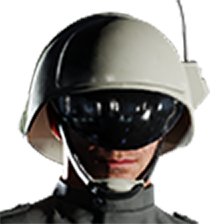
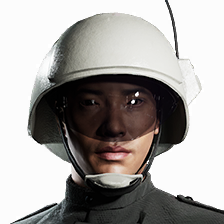
fixed the appearances page

diff --git a/docs/details/appearances.js b/docs/details/appearances.js
@@ -123,7 +123,6 @@ fetch("../../lists/appearances.json").then(response => response.json()).then(dat
         'villains-darthvader',
         'villains-dengar',
         'villains-emperorpalpatine',
-        'villains-generalgrievous',
         'villains-grandadmiralthrawn',
         'villains-gideonhask',
         'villains-greedo',

diff --git a/docs/community-updates/v10.md b/docs/community-updates/v10.md
@@ -1219,6 +1219,7 @@ ___
     - Honor Guard
         - BACTA GRENADE
             - Explodes on impact.
+        - Updated portrait.
     - Imperial Jumptrooper
         - Restored Legacy appearance.
         - Star Tours appearance boasts the classic Imperial jetpack from 2015.
@@ -1275,10 +1276,11 @@ ___
             - Replaced crosshair.
     - Riot Control Trooper
         - Z6 RIOT CONTROL BATON
-          - Cannot attack while mid-air.
-          - While not attacking, the baton will be retracted and the lightning disabled.
-          - Added activation, looping, and deactivation sounds for the attack sequence.
-          - Updated impact and swing sounds.
+            - Defeating enemies will briefly yield health regeneration, which will be canceled if damage is taken.
+            - Cannot attack while mid-air.
+            - While not attacking, the baton will be retracted and the lightning disabled.
+            - Added activation, looping, and deactivation sounds for the attack sequence.
+            - Updated impact and swing sounds.
         - Evading performs a dodge roll instead of a dash.
         - Autoplayers are significantly more aggressive with the baton while in melee range.
         - Added Executioner appearance.
@@ -1302,6 +1304,7 @@ ___
         - Updated appearance assets.
         - Added Light Armor and Shadow Guard appearances.
         - Default appearance named Ceremonial Robes.
+        - Updated portrait.
     - Shock Trooper
         - BACTA GRENADE
             - Explodes on impact.
@@ -1445,7 +1448,7 @@ ___
     - Captain Rex
         - GENERATION ONE revamped
             - Generation one armor holds up, boosting Captain Rex's resistance to incoming damage. As his health decreases, this effect is strengthened, ensuring his ability to stay in the fight.
-            - Updated ability icon.
+            - Updated icon.
         - DROID POPPERS
             - Decreased stun duration.
         - UNCONVENTIONAL TACTICS
@@ -1539,8 +1542,15 @@ ___
     - Luke Skywalker
         - Added Bespin and Training Helmet appearances.
     - Maz Kanata
+        - JETPACK
+          - Can be activated by use of the left ability, similar to jet trooper reinforcements.
         - CHANGE IN FORTUNE
             - Added new start, end, and success sounds.
+        - BURN DASH
+            - Moved to the Right Ability category.
+            - Updated icon.
+        - ADJUSTABLE FUSE
+            - Moved to the Bottom Ability category.
         - AN ACQUIRED TASTED Star Card
             - Decreased the deflected damage cooldown so that it occurs slightly more frequently.
         - Added unique voicelines.

diff --git a/docs/details/heroes.md b/docs/details/heroes.md
@@ -169,12 +169,15 @@ Battlefront Plus adds 22 new heroes across all factions, each with their own uni
     </h3>
     <a>Maz Kanata had resided at her castle for over a thousand years, witnessing the Dark Side take many forms, when the First Order emerged from hiding. The destruction of the Hosnian System and subsequent subjugation of the galaxy prompted the "Pirate Queen" to take a stand against this new threat.</a>
     <div>
-    <a class="ability-item" data-text="Maz creates an extra volatile reaction to dash forward with her jetpack, causing burn damage to nearby enemies while it is active.">
-      <img class="ability" class="no-lb" src="../../assets/abilities/heroes/mazkanata/MazKanata_BurnDash.svg">
-      <span class="ability-name">Burn Dash</span>
+    <a class="ability-item" data-text="Advanced jetpack that enables flight while spending fuel. Its hover mode is activated by aiming down the sight of the blaster while in air.">
+      <img class="ability" class="no-lb" src="../../assets/abilities/heroes/mazkanata/MazKanata_Jetpack.svg">
+      <span class="ability-name">Jetpack</span>
     </a><a class="ability-item" data-text="Enemies dealing damage to Maz will recieve a small amount of damage in return.">
       <img class="ability" class="no-lb" src="../../assets/abilities/heroes/mazkanata/MazKanata_Reflect.svg">
       <span class="ability-name">Change in Fortune</span>
+    <a class="ability-item" data-text="Maz creates an extra volatile reaction to dash forward with her jetpack, causing burn damage to nearby enemies while it is active.">
+      <img class="ability" class="no-lb" src="../../assets/abilities/heroes/mazkanata/MazKanata_BurnDash.svg">
+      <span class="ability-name">Burn Dash</span>
     </a><a class="ability-item" data-text="Maz equips an MPL-57 grenade launcher that will increase the projectile's fuse time, blast, and launch speed when the trigger is held.">
       <img class="ability" class="no-lb" src="../../assets/abilities/heroes/mazkanata/MazKanata_MPL.svg">
       <span class="ability-name">Adjustable Fuse</span>
